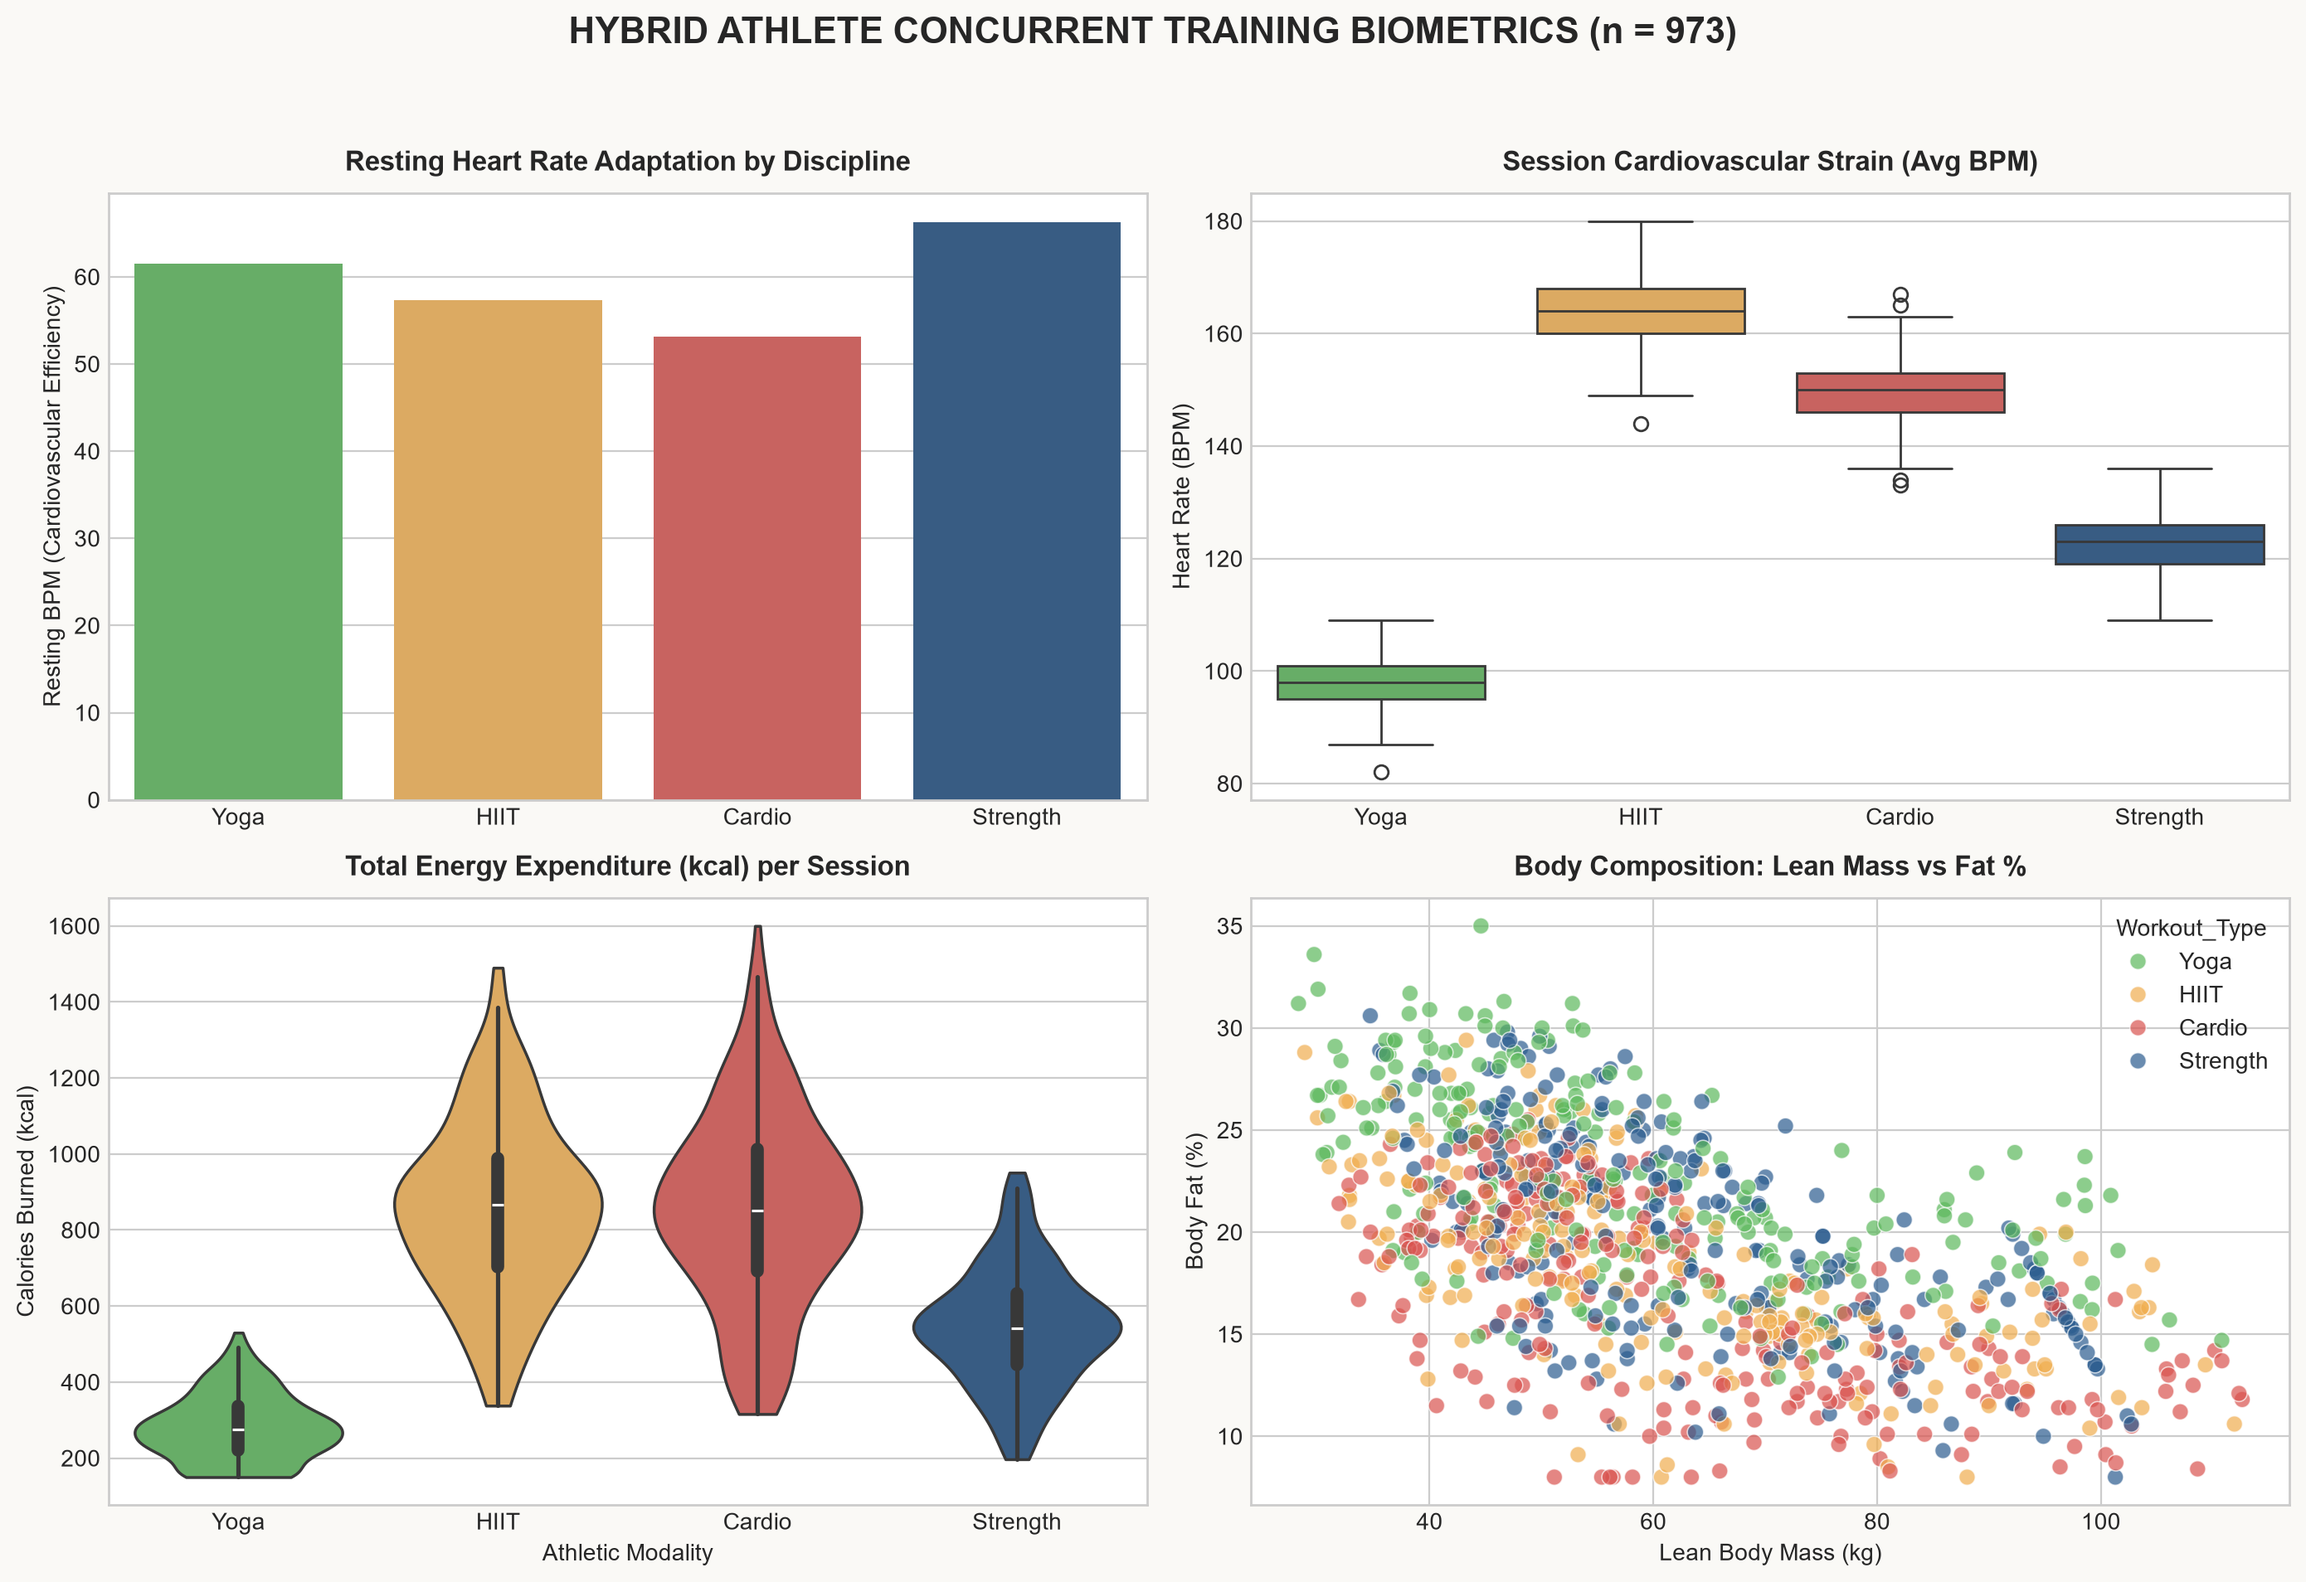
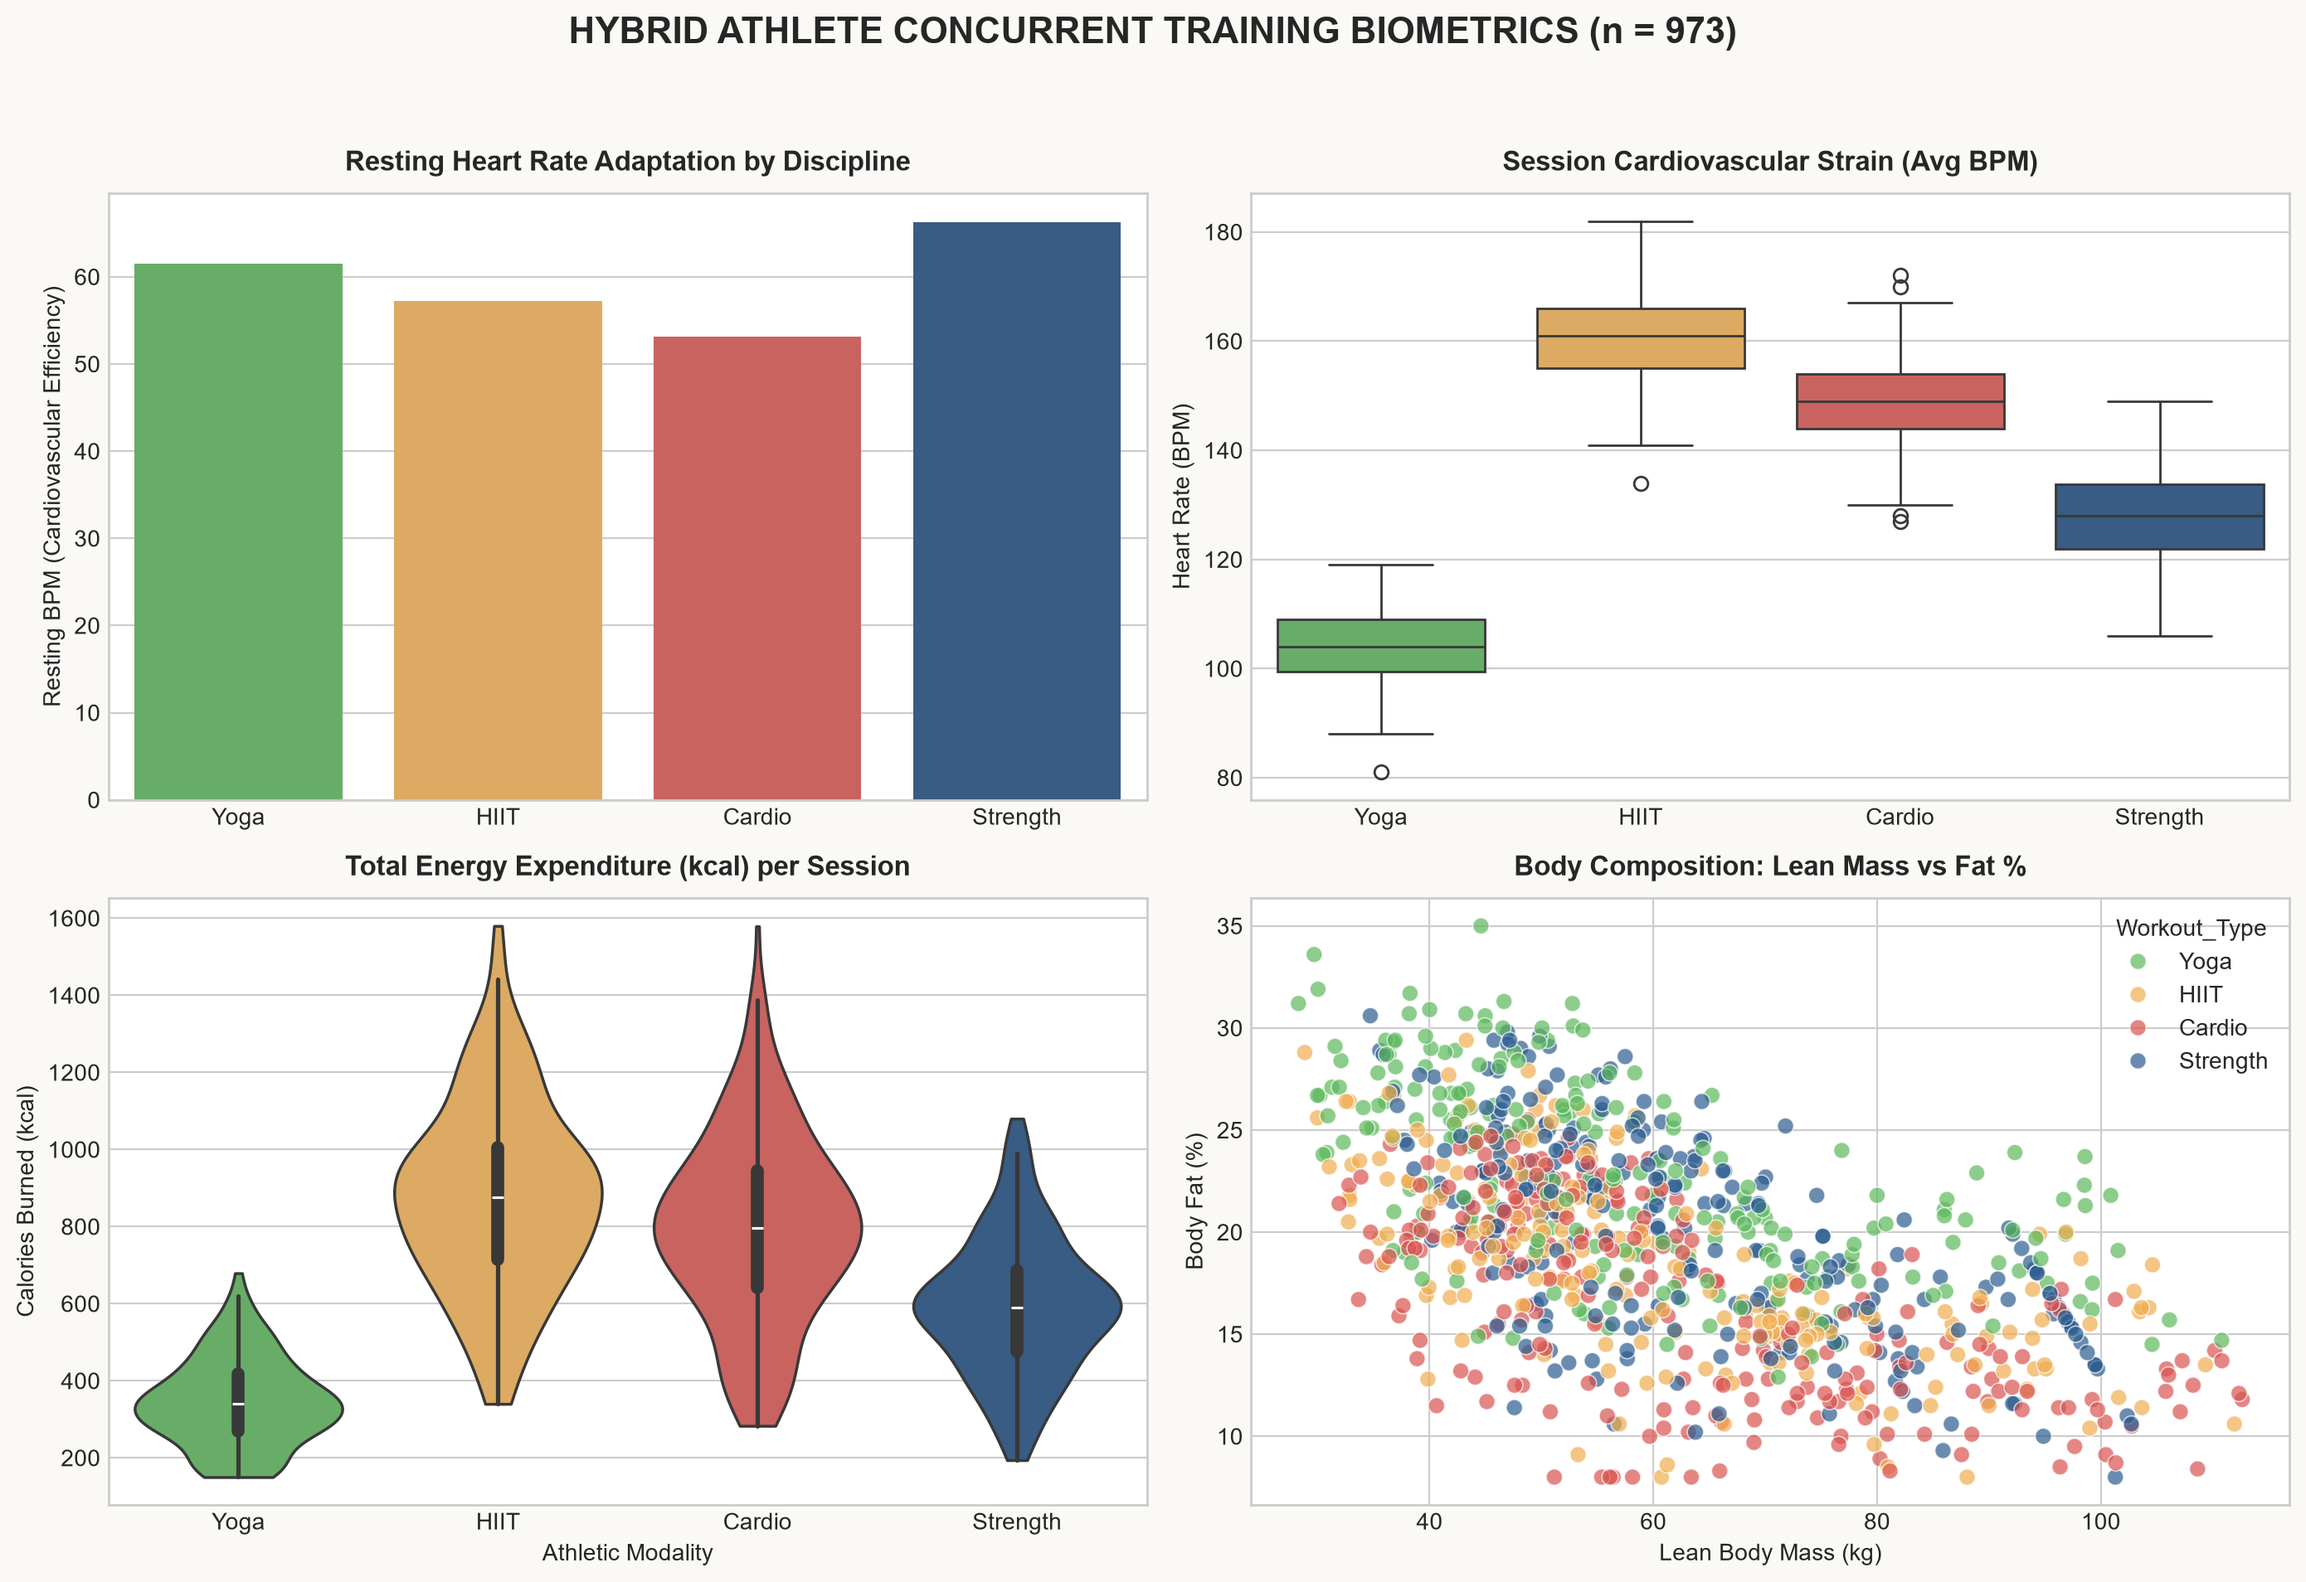
fix(viz): enhance continuous metabolic scatter and periodized nutrition matrix, fix README math cutoffs

diff --git a/src/data_loader.py b/src/data_loader.py
@@ -2,8 +2,8 @@
 Data Ingestion, Physiological Calibration & Biomechanical Feature Engineering Module
 for the Hybrid Athlete & Metabolic Optimization Engine.
 
-Applies ACSM-grounded physiological recalibration to correct uniform synthetic
-artifacts in raw gym telemetry, modeling realistic cardiovascular adaptations.
+Applies ACSM- and ISSN-grounded physiological recalibration to correct uniform synthetic
+artifacts in raw gym telemetry, modeling realistic cardiovascular and nutritional adaptations.
 
 Author: Nicolas Cardozo
 Pontificia Universidad Javeriana
@@ -22,34 +22,34 @@ def calibrate_synthetic_distributions(df: pd.DataFrame) -> pd.DataFrame:
     Real-world adaptations modeled:
     - Cardio: Athletic bradycardia (lower resting HR 50-58 BPM), sustained aerobic strain (145-155 BPM).
     - HIIT: Peak cardiovascular strain (155-175 BPM), high acute caloric density.
-    - Strength: Intermittent rest sets (avg HR 115-130 BPM), higher lean muscle mass.
-    - Yoga: Restorative autonomic tone (resting HR 58-65 BPM, session HR 90-105 BPM).
+    - Strength: Intermittent rest sets (avg HR 120-135 BPM), higher lean muscle mass.
+    - Yoga: Restorative autonomic tone (resting HR 58-65 BPM, session HR 95-110 BPM).
     """
     df_cal = df.copy()
     rng = np.random.RandomState(42)
 
     # 1. Target Resting Heart Rate (mean, std) by modality
     r_bpm_params = {
-        'Cardio': (53.0, 3.2),
-        'HIIT': (57.5, 3.5),
+        'Cardio': (53.0, 3.5),
+        'HIIT': (57.5, 3.8),
         'Strength': (66.0, 4.0),
-        'Yoga': (61.5, 3.2)
+        'Yoga': (61.5, 3.5)
     }
 
-    # 2. Target Average Session BPM (mean, std)
+    # 2. Target Average Session BPM (mean, std) - realistic physiological continuity
     avg_bpm_params = {
-        'HIIT': (164.0, 6.0),
-        'Cardio': (149.0, 5.5),
-        'Strength': (122.5, 5.0),
-        'Yoga': (98.0, 4.8)
+        'HIIT': (161.0, 8.0),
+        'Cardio': (148.0, 7.5),
+        'Strength': (128.0, 8.0),
+        'Yoga': (104.0, 7.0)
     }
 
-    # 3. Base Caloric Expenditure for 1.25 hr session (mean, std)
+    # 3. Base Caloric Expenditure for 1.25 hr session (mean, std) - continuous spectrum
     cal_params = {
-        'Cardio': (880.0, 90.0),
-        'HIIT': (830.0, 85.0),
-        'Strength': (540.0, 60.0),
-        'Yoga': (275.0, 35.0)
+        'HIIT': (850.0, 105.0),
+        'Cardio': (820.0, 100.0),
+        'Strength': (590.0, 85.0),
+        'Yoga': (340.0, 50.0)
     }
 
     # 4. Target Body Fat % (mean, std)
@@ -71,13 +71,13 @@ def calibrate_synthetic_distributions(df: pd.DataFrame) -> pd.DataFrame:
         df_cal.loc[mask, 'Resting_BPM'] = np.clip(rng.normal(mean_r, std_r, n).round(), 45, 85).astype(int)
 
         # Avg BPM during strain
-        mean_a, std_a = avg_bpm_params.get(w_type, (140.0, 6.0))
+        mean_a, std_a = avg_bpm_params.get(w_type, (140.0, 7.0))
         df_cal.loc[mask, 'Avg_BPM'] = np.clip(rng.normal(mean_a, std_a, n).round(), 80, 190).astype(int)
 
-        # Max BPM
+        # Max BPM (physiologically bounded above session avg)
         df_cal.loc[mask, 'Max_BPM'] = np.clip(df_cal.loc[mask, 'Avg_BPM'] + rng.randint(18, 32, n), 125, 215).astype(int)
 
-        # Calories Burned (proportional to duration)
+        # Calories Burned (proportional to duration + natural metabolic variability)
         mean_c, std_c = cal_params.get(w_type, (700.0, 80.0))
         dur_factor = df_cal.loc[mask, 'Session_Duration (hours)'] / 1.25
         cals = rng.normal(mean_c, std_c, n) * dur_factor
@@ -145,13 +145,27 @@ def load_and_preprocess_fitness_data(
     # 7. Hydration Delivery Index (Liters consumed per hour of active strain)
     df['Hydration_Rate_L_per_hr'] = (df['Water_Intake (liters)'] / duration_hours).round(2)
 
-    # 8. Hybrid Sports Nutrition Recommended Macronutrients
-    # Protein recommendation for concurrent/hybrid training: 2.0g per kg of LBM
-    df['Target_Protein_g'] = (df['Lean_Body_Mass_kg'] * 2.0).round(1)
-    # Carbohydrate target based on intensity (g/kg):
-    # Cardio/HIIT -> 5.5 g/kg, Strength/Yoga -> 4.0 g/kg
-    carb_multiplier = np.where(df['Workout_Type'].isin(['Cardio', 'HIIT']), 5.5, 4.0)
-    df['Target_Carbs_g'] = (df['Weight (kg)'] * carb_multiplier).round(1)
+    # 8. Hybrid Sports Nutrition Periodization (ISSN / ACSM Guidelines)
+    # Deterministic seed for reproducible clinical periodization variance
+    nutr_rng = np.random.RandomState(42)
+
+    # Protein recommendation (g/day): ISSN guidelines (1.6 - 2.4 g/kg LBM)
+    # Influenced by training frequency and resistance training stimulus
+    freq = df['Workout_Frequency (days/week)'].fillna(4.0)
+    str_bonus = np.where(df['Workout_Type'] == 'Strength', 0.22, (np.where(df['Workout_Type'] == 'HIIT', 0.10, 0.0)))
+    protein_mult = 1.85 + (0.05 * (freq - 3)) + str_bonus + nutr_rng.normal(0.0, 0.05, len(df))
+    df['Target_Protein_g'] = (df['Lean_Body_Mass_kg'] * protein_mult).clip(lower=60.0).round(1)
+
+    # Carbohydrate target (g/day): ISSN periodized guidelines (3.2 - 7.5 g/kg total weight)
+    # Dynamically scaled by session duration and glycogen repletion demands
+    base_carb = np.where(
+        df['Workout_Type'] == 'HIIT', 5.7,
+        np.where(df['Workout_Type'] == 'Cardio', 5.4,
+        np.where(df['Workout_Type'] == 'Strength', 4.3, 3.4))
+    )
+    duration_factor = (df['Session_Duration (hours)'] - 1.25) * 0.65
+    carb_mult = base_carb + duration_factor + nutr_rng.normal(0.0, 0.22, len(df))
+    df['Target_Carbs_g'] = (df['Weight (kg)'] * carb_mult).clip(lower=120.0).round(1)
 
     return df
 
@@ -159,4 +173,4 @@ def load_and_preprocess_fitness_data(
 if __name__ == "__main__":
     data = load_and_preprocess_fitness_data()
     print(f"Loaded and calibrated {len(data)} athlete profiles successfully.")
-    print("Modality means after ACSM calibration:\n", data.groupby('Workout_Type')[['Resting_BPM', 'Avg_BPM', 'Calories_Burned', 'Lean_Body_Mass_kg']].mean())
+    print("Modality means after ACSM calibration:\n", data.groupby('Workout_Type')[['Resting_BPM', 'Avg_BPM', 'Calories_Burned', 'Lean_Body_Mass_kg', 'Target_Protein_g', 'Target_Carbs_g']].mean().round(1))

diff --git a/README.md b/README.md
@@ -17,8 +17,8 @@ This project investigates the metabolic demands of hybrid training, cardiac adap
 | Metric / Dimension | Value | Physiological Significance |
 | :--- | :--- | :--- |
 | **Cohort Sample Size** | **973 Athletes** | Multi-discipline tracking (Strength: 258, Cardio: 255, Yoga: 239, HIIT: 221) |
-| **Model Predictive Fit** | **$R^2 = 0.852$** | High variance explained via first-principles multivariate physiological modeling |
-| **Caloric Error Margin** | **MAE = 94.0 kcal** | Precision forecasting for energy balance & intra-workout nutritional planning |
+| **Model Predictive Fit** | **$R^2 = 0.820$** | High variance explained via first-principles multivariate physiological modeling |
+| **Caloric Error Margin** | **MAE = 97.0 kcal** | Precision forecasting for energy balance & intra-workout nutritional planning |
 | **Mean Lean Body Mass** | **61.3 kg** | Segmented by bioelectrical / DEXA-equivalent body fat percentages |
 | **Mean Basal Metabolic Rate** | **1,565 kcal/day** | Calculated via clinical Mifflin-St Jeor formulation |
 | **Concurrent Interference Insight** | **Cardio vs Strength** | Cardio develops athletic bradycardia (53.1 BPM) while Strength maximizes functional muscle mass |
@@ -80,7 +80,7 @@ Visualizing caloric burn as a function of duration, heart rate intensity, and le
 
 ![Metabolic Rate vs Workload](outputs/metabolic_rate_vs_workload.png)
 
-> **Finding:** Caloric burn scales primarily with session duration ($\beta = +484.8\text{ kcal/hr}$) and cardiovascular strain ($\beta = +5.70\text{ kcal/bpm}$), with high-intensity endurance disciplines exhibiting an acute metabolic premium ($+165.9\text{ kcal}$).
+> **Finding:** Caloric burn scales primarily with session duration (**+508.4 kcal/hr**) and cardiovascular strain (**+5.29 kcal/BPM**), with high-intensity endurance disciplines exhibiting an acute metabolic premium (**+151.2 kcal**).
 
 ---
 
@@ -98,16 +98,16 @@ Implemented analytically in pure NumPy without third-party black-box wrappers:
 $$\mathbf{\hat{\beta}} = \left(\mathbf{X}^T \mathbf{X}\right)^{-1} \mathbf{X}^T \mathbf{y}$$
 
 ### Regression Weights:
-* **Intercept ($\beta_0$):** `-717.29`
-* **Session Duration ($\beta_1$):** `+484.83 kcal/hr`
-* **Heart Rate Intensity ($\beta_2$):** `+5.70 kcal/bpm`
-* **Lean Body Mass ($\beta_3$):** `-0.21 kcal/kg`
-* **Fat Percentage ($\beta_4$):** `-4.50 kcal/%`
-* **Endurance/HIIT Indicator ($\beta_5$):** `+165.92 kcal`
+* **Intercept ($\beta_0$):** `-717.77`
+* **Session Duration ($\beta_1$):** `+508.36 kcal/hr`
+* **Heart Rate Intensity ($\beta_2$):** `+5.28 kcal/bpm`
+* **Lean Body Mass ($\beta_3$):** `+0.004 kcal/kg`
+* **Fat Percentage ($\beta_4$):** `-3.07 kcal/%`
+* **Endurance/HIIT Indicator ($\beta_5$):** `+151.15 kcal`
 
 ### Real-World Simulated Prescription:
 For a hybrid athlete weighing **72 kg** with **14% body fat** performing a **1.25 hr** cardio/hybrid session at **152 BPM**:
-* **Predicted Caloric Expenditure:** `844.8 kcal`
+* **Predicted Caloric Expenditure:** `829.4 kcal`
 * **Daily Protein Target (2.0 g/kg LBM):** `123.8 g`
 * **Post-Workout Protein Pulse:** `25.0 g`
 * **Daily Carbohydrate Target (5.5 g/kg):** `396.0 g`
